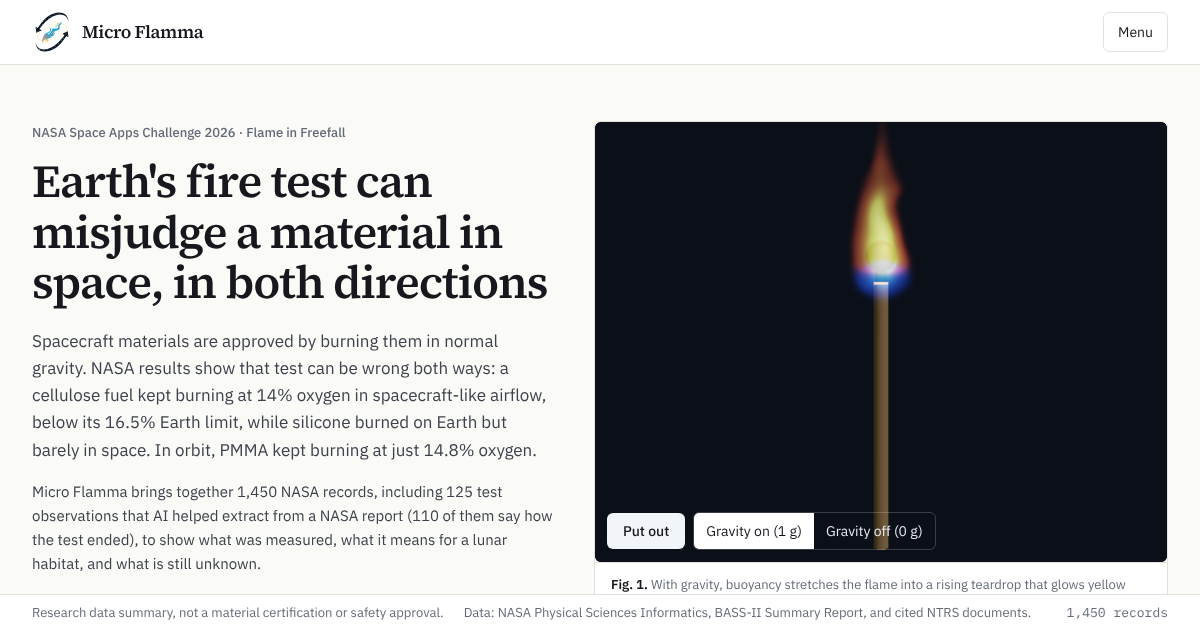
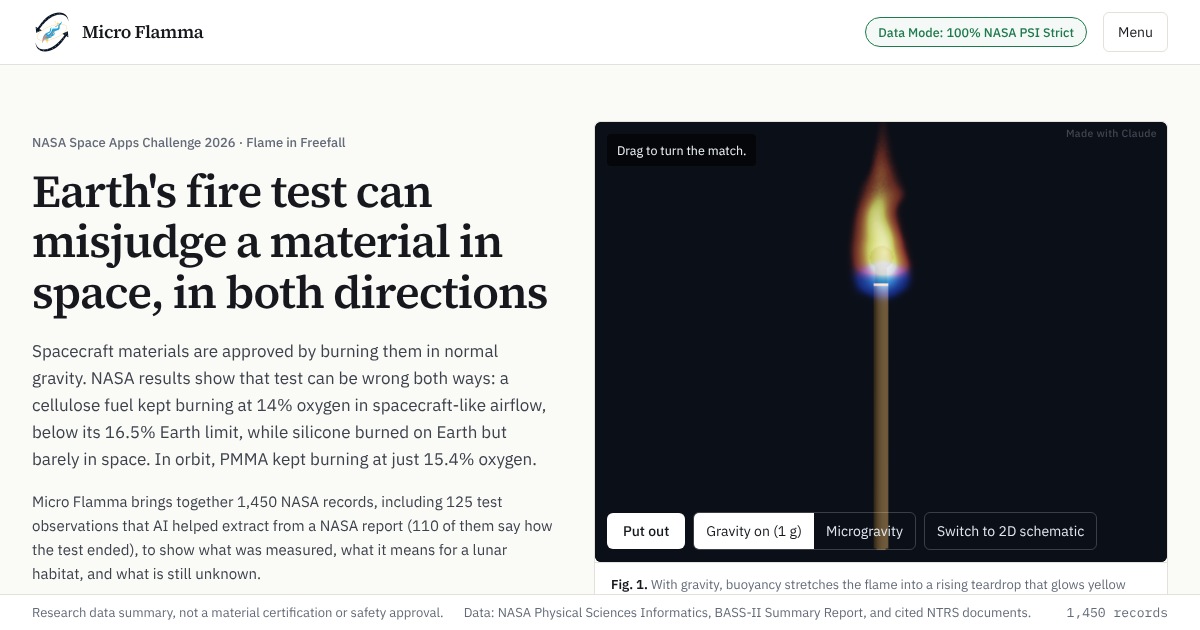
Faint 'Made with Claude' mark on every animation and designed figure
- CSS mark (top right, faint) on every .figure: Home 3D match, Lab 3D
  view, 2D fallbacks, charts, schematic, habitat envelope, pipeline
  figures; drawn inside the flowchart SVG so the exported PNG has it
- NASA's own photos and videos opt out (.no-mark), so the mark never
  sits on NASA's work
- Lab telemetry overlay and Home hint moved clear of the mark
- docs/how-it-works.png and public/og.png re-exported with the mark

Claude-Session: https://claude.ai/code/session_0111r3pcy9UKQBoNb2MKrVSU

diff --git a/src/pages/Lab.tsx b/src/pages/Lab.tsx
@@ -814,7 +814,7 @@ function RealImagery({ psi, shape, material }: { psi: string[]; shape: string; m
   const photos = items.filter((m) => m.kind === 'image')
   const videos = items.filter((m) => m.kind === 'video')
   return (
-    <figure className="figure">
+    <figure className="figure no-mark">{/* NASA's own photos and videos: no "Made with Claude" mark */}
       {items.length ? (
         <div className="p-3 sm:p-4 space-y-3">
           {photos.length > 0 && (
@@ -962,7 +962,7 @@ function TelemetryHud({ data, t, cls, label, is1g }: { data: Dataset; t: TestRec
     [is1g ? 'Outcome (1 g)' : 'Outcome', cls && label ? label : nr, cls ? tier(is1g ? 'outcome_1g_class' : 'outcome_class') : '—'],
   ]
   return (
-    <div className="absolute top-3 right-3 max-w-[calc(100%-1.5rem)] sm:max-w-[300px] rounded bg-black/65 text-slate-100 text-[12px] leading-snug">
+    <div className="absolute top-7 right-3 max-w-[calc(100%-1.5rem)] sm:max-w-[300px] rounded bg-black/65 text-slate-100 text-[12px] leading-snug">
       <button onClick={() => setOpen((v) => !v)} className="w-full text-left px-3 py-1.5 font-medium flex items-center gap-2" aria-expanded={open}>
         <span>Empirical PSI Telemetry Overlay</span><span className="ml-auto text-slate-400" aria-hidden>{open ? '−' : '+'}</span>
       </button>

diff --git a/src/pages/Findings.tsx b/src/pages/Findings.tsx
@@ -219,7 +219,7 @@ function Flamelets({ data }: { data: Dataset }) {
       burn their own channel toward the incoming air, and survive where a full flame could not.
     </>}>
       <div className="grid lg:grid-cols-[minmax(0,320px)_1fr] gap-6 items-start">
-        <Fig n={3} caption={fig.caption} source={<><LitCite data={data} keyName={fig.source} />, {fig.where}. {fig.setting}</>}>
+        <Fig n={3} className="no-mark" caption={fig.caption} source={<><LitCite data={data} keyName={fig.source} />, {fig.where}. {fig.setting}</>}>
           <img src={`${import.meta.env.BASE_URL}media/${fig.file}`} alt="Flamelets re-forming a flame front when airflow increases (top) and the char fingers they leave on paper (bottom)"
                className="w-full bg-viewport" loading="lazy" />
         </Fig>

diff --git a/src/components/MatchScene.tsx b/src/components/MatchScene.tsx
@@ -248,7 +248,7 @@ export default function MatchScene({ lit, gravityOn, onContextLost }: { lit: boo
          onPointerUp={() => { drag.current = null }} onPointerCancel={() => { drag.current = null }}
          onDoubleClick={upright}>
       {/* What turning the match does, in one line. */}
-      <div className="absolute top-3 left-3 right-3 z-10 flex flex-wrap items-start gap-2 pointer-events-none">
+      <div className="absolute top-3 left-3 right-28 z-10 flex flex-wrap items-start gap-2 pointer-events-none">
         <p className="rounded bg-black/55 px-2.5 py-1.5 text-[12.5px] text-slate-100 max-w-md">
           {!turned ? 'Drag to turn the match.' : gravityOn ? HINT[tilt] : 'No "up" in orbit: the flame stays round whichever way the match points.'}
         </p>

diff --git a/src/index.css b/src/index.css
@@ -69,7 +69,15 @@ a:hover { @apply underline; }
 .flag-ok::before { background: #1f7a4d; }
 
 /* Figures */
-.figure { @apply card overflow-hidden; }
+.figure { @apply card overflow-hidden; position: relative; }
+/* AI disclosure: every animation and designed figure carries a faint
+   "Made with Claude" mark, top right. NASA's own photos opt out with
+   .no-mark, so the mark never sits on NASA's work. */
+.figure:not(.no-mark)::after {
+  content: "Made with Claude"; position: absolute; top: 6px; right: 10px; z-index: 20;
+  font: 500 10.5px/1 "IBM Plex Sans", system-ui, sans-serif; letter-spacing: .03em;
+  color: rgb(100 107 120 / .6); pointer-events: none;
+}
 .figcap { @apply caption px-4 py-3 border-t border-rule; }
 .figcap b { @apply text-ink font-semibold; }
 

diff --git a/src/components/HowItWorks.tsx b/src/components/HowItWorks.tsx
@@ -135,6 +135,7 @@ export default function HowItWorks({ data }: { data: Dataset }) {
             .hiw-link:hover text tspan:first-child { text-decoration: underline }
           `}</style>
 
+          <text x={990} y={14} textAnchor="end" fontSize={11} fontWeight={500} letterSpacing={0.4} fill={C.mute} fillOpacity={0.6}>Made with Claude</text>
           <Rule y={r2 - 38} />
           <Rule y={r3 - 54} />
 
